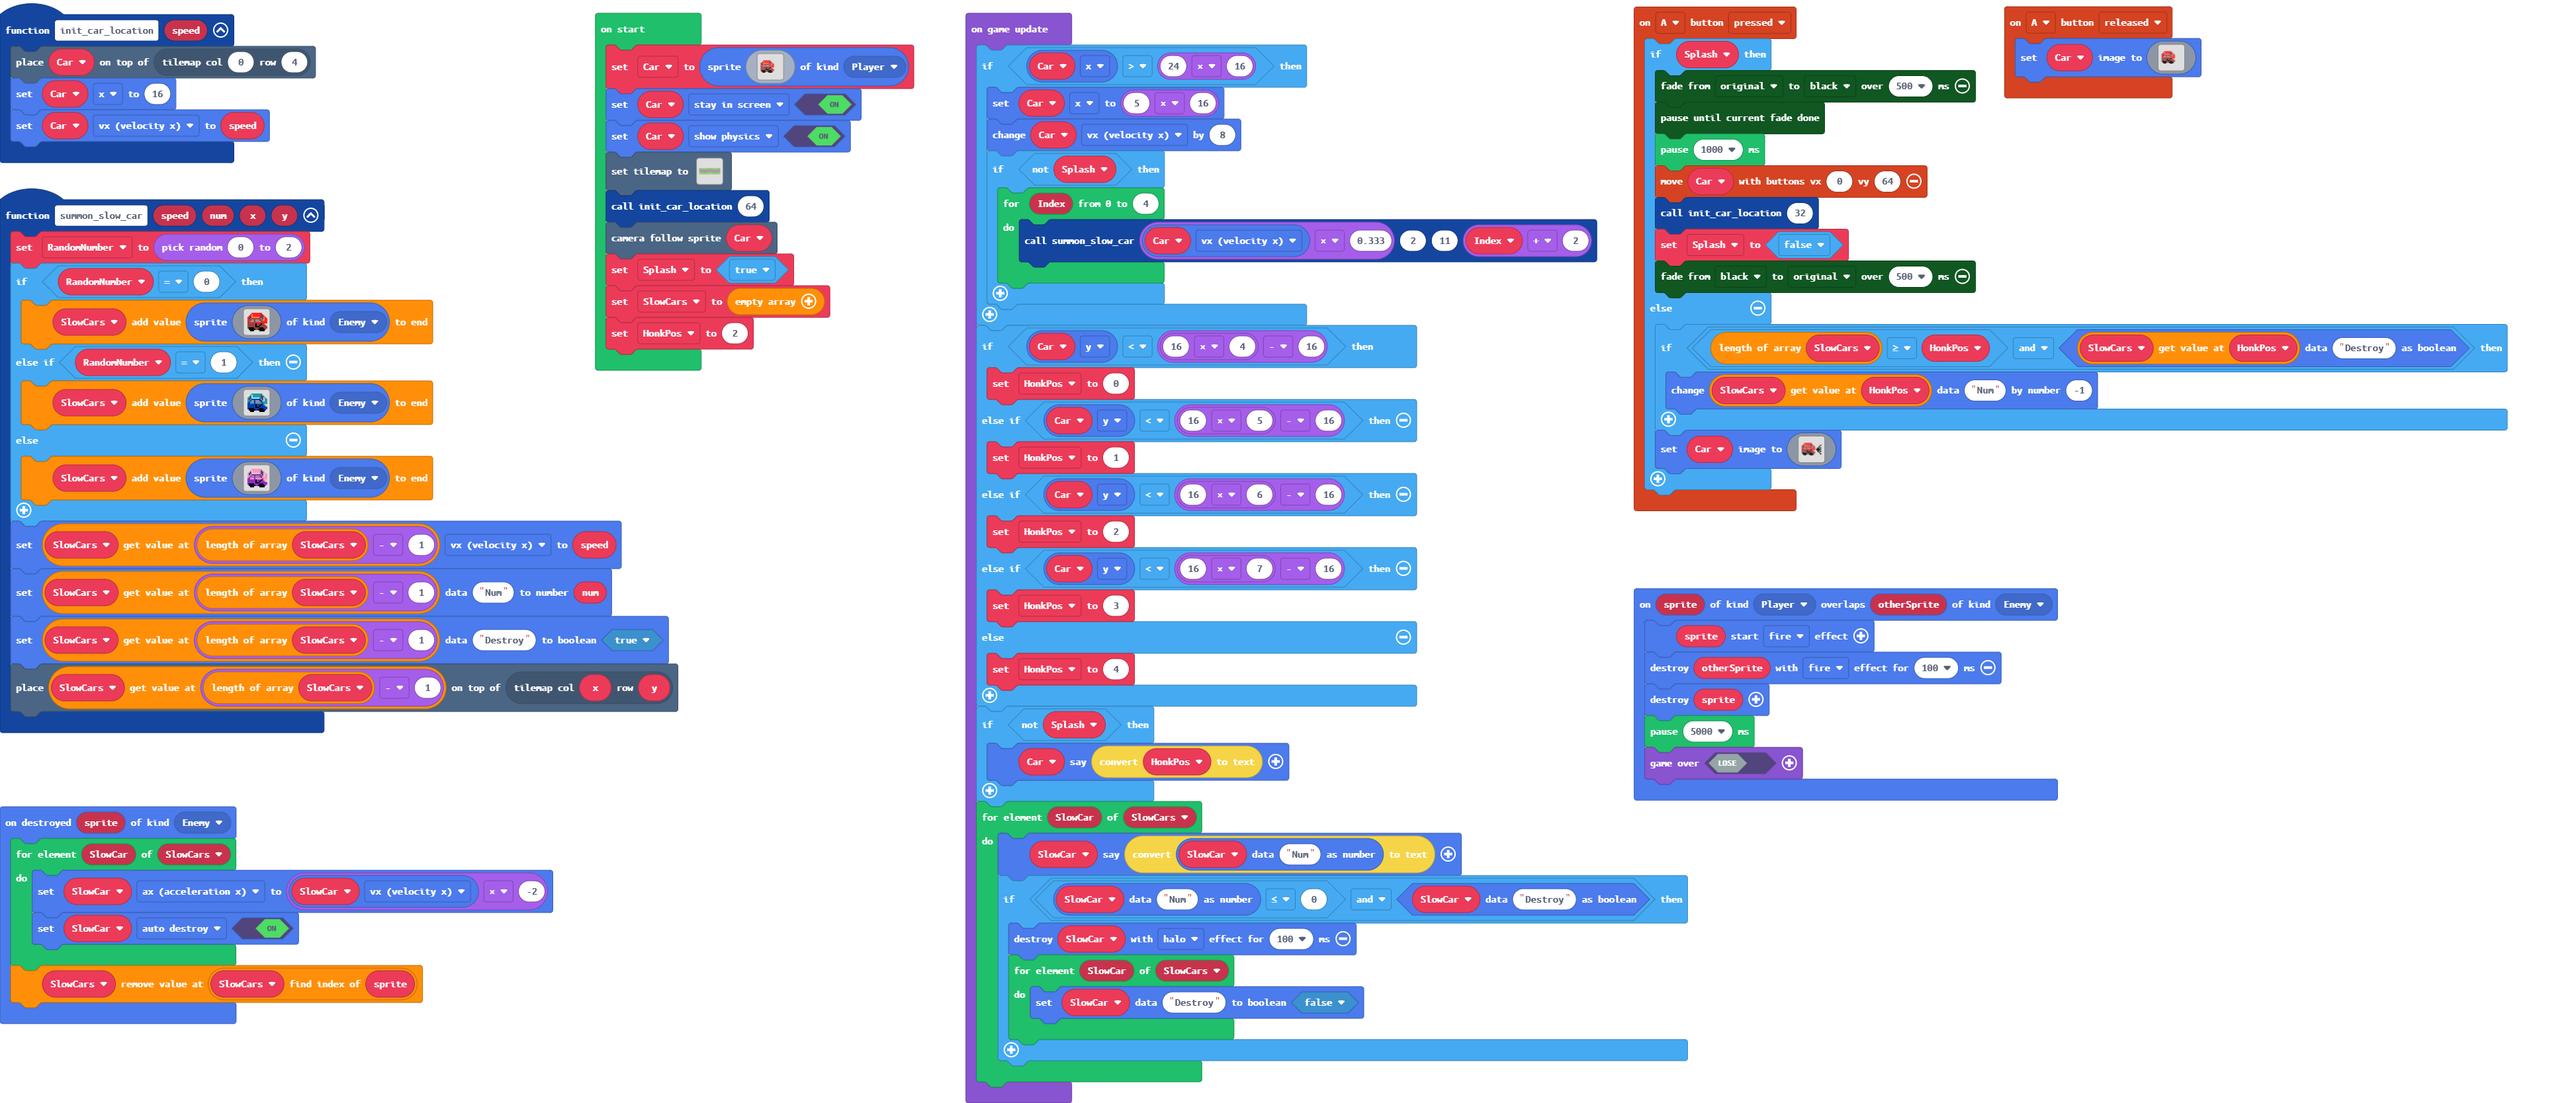
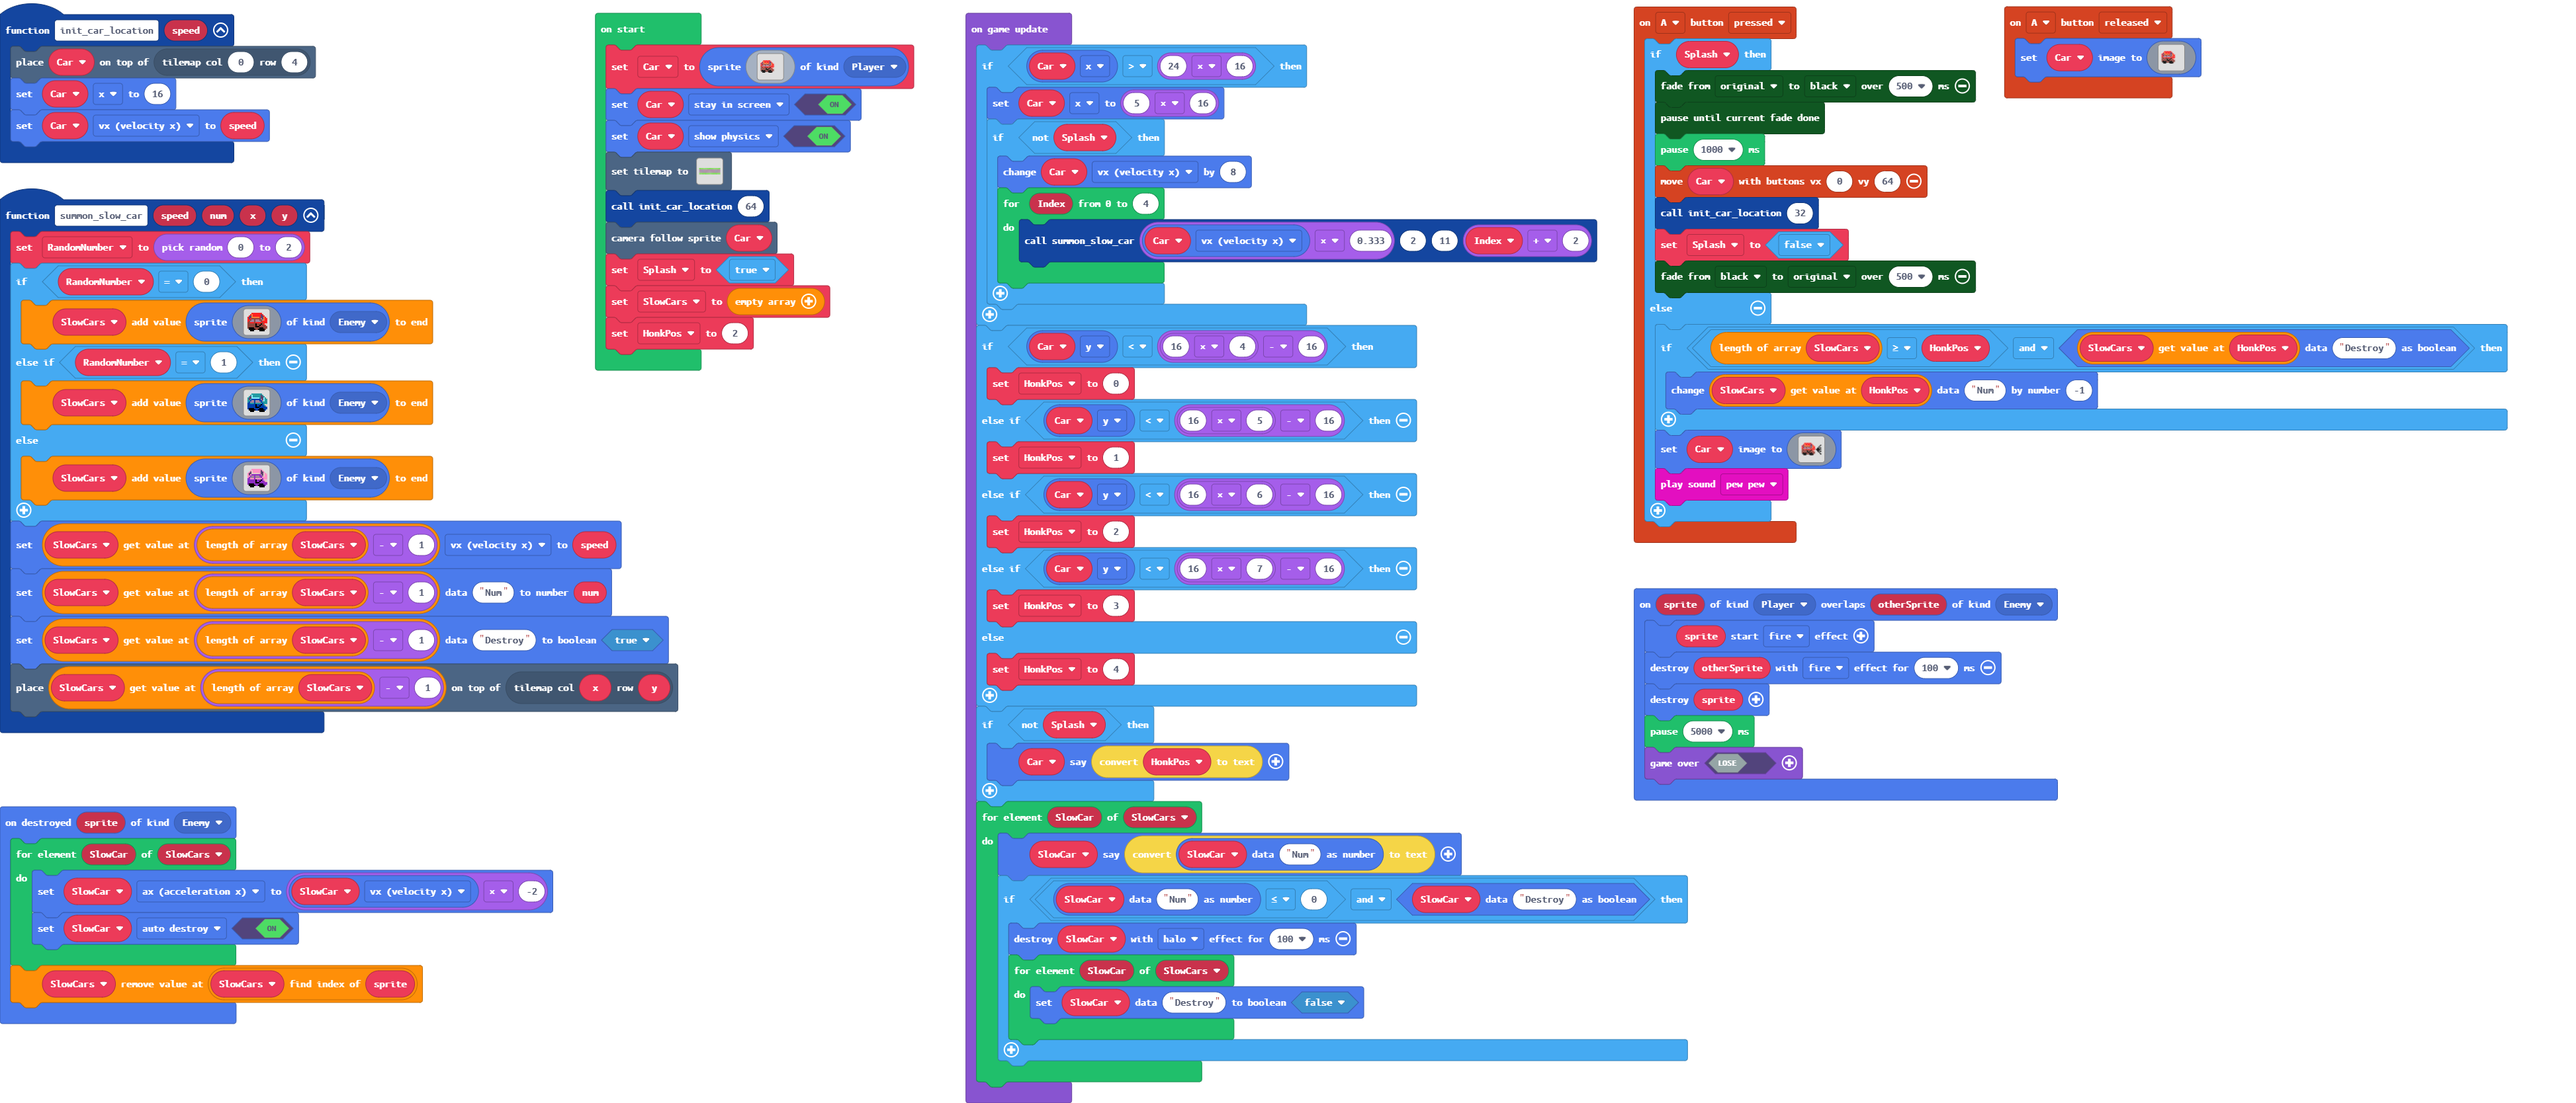
Added audio honking and no speeding in splash screen

Changed region(s): [[0.373, 0.0935, 0.4973, 0.1871], [0.6216, 0.4053, 0.7149, 0.4988]]

diff --git a/main.ts b/main.ts
@@ -94,6 +94,7 @@ controller.A.onEvent(ControllerButtonEvent.Pressed, function () {
             . . . f f f . . . . f f f f . . . . . . . . . . 
             . . . . . . . . . . . . . . . . . . . . . . . . 
             `)
+        music.pewPew.play()
     }
 })
 controller.A.onEvent(ControllerButtonEvent.Released, function () {
@@ -179,8 +180,8 @@ HonkPos = 2
 game.onUpdate(function () {
     if (Car.x > 24 * 16) {
         Car.x = 5 * 16
-        Car.vx += 8
         if (!(Splash)) {
+            Car.vx += 8
             for (let Index = 0; Index <= 4; Index++) {
                 summon_slow_car(Car.vx * 0.333, 2, 11, Index + 2)
             }
